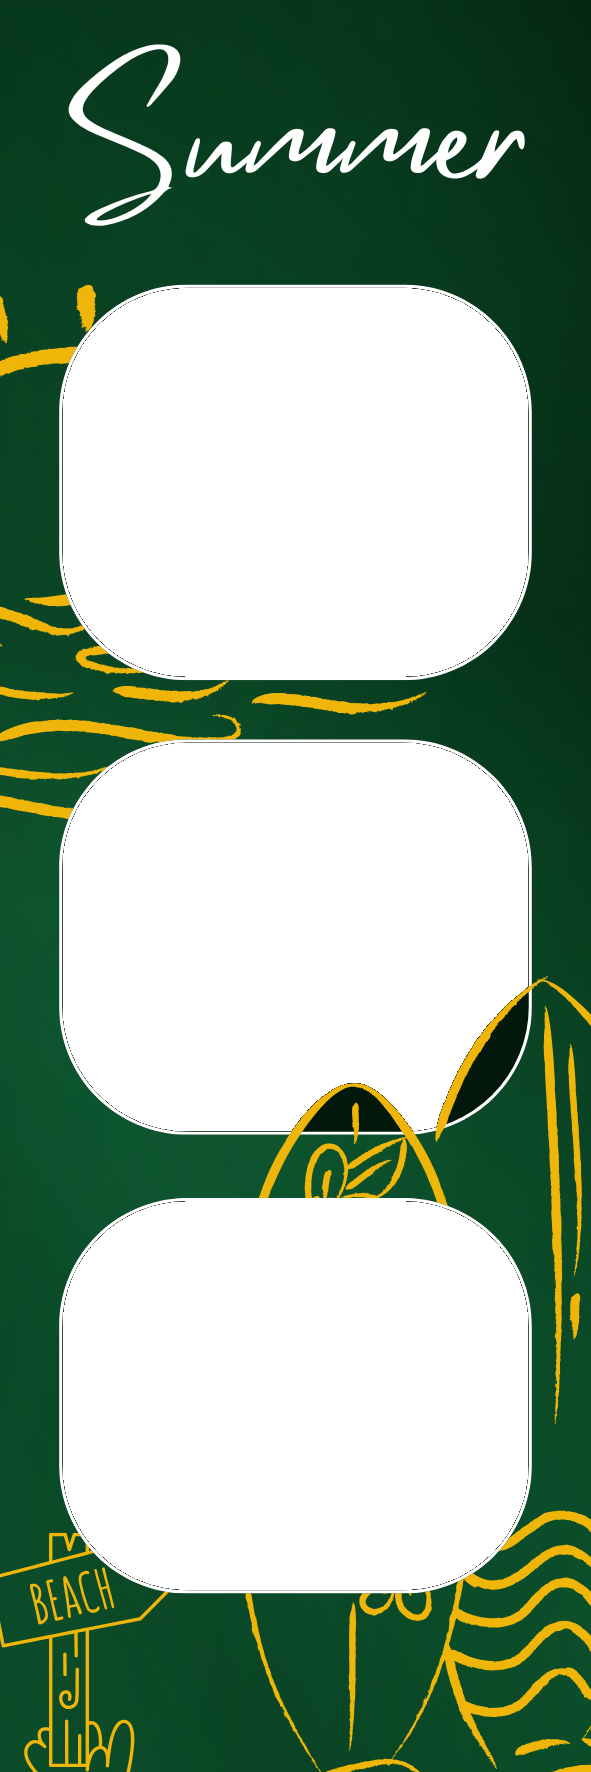
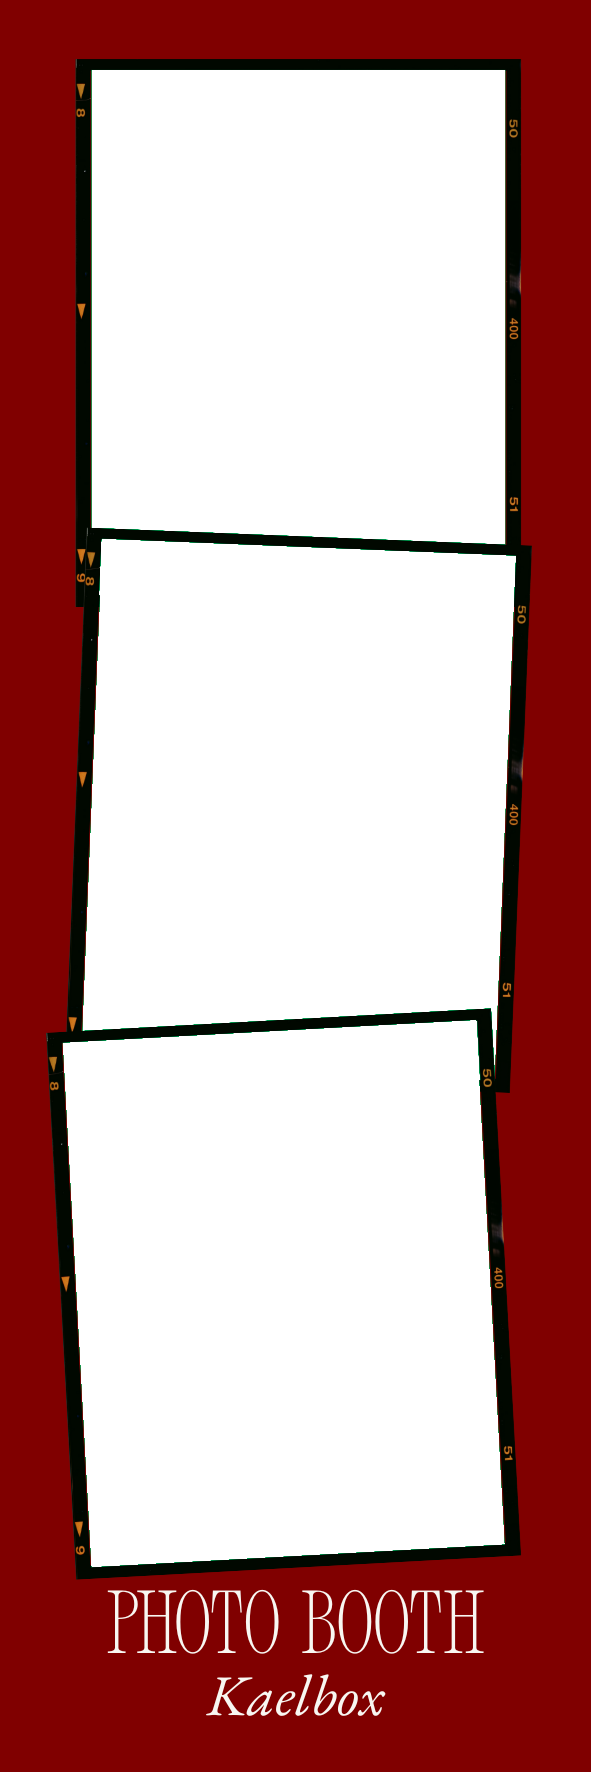
add new frame template

diff --git a/src/components/VirtualPhotobox.jsx b/src/components/VirtualPhotobox.jsx
@@ -58,13 +58,22 @@ const DEFAULT_FRAME_CONFIGS = {
         name: "Frame 5",
         aspectRatio: "591/1772",
         slots: [
-            { top: 13.8, left: 8.8, width: 85, height: 26 },
-            { top: 40.4, left: 8.8, width: 85, height: 26 },
-            { top: 66.4, left: 8.8, width: 85, height: 26 },
+            { top: 4.0, left: 8.8, width: 85.6, height: 26.6 },
+            { top: 30.5, left: 8.8, width: 85.6, height: 28.2  },
+            { top: 58.0, left: 8.8, width: 85.6, height: 32.6 },
         ],
     },
     "/frame 6.png": {
         name: "Frame 6",
+        aspectRatio: "591/1772",
+        slots: [
+            { top: 3.3, left: 12, width: 76, height: 26 },
+            { top: 31.6, left: 12, width: 76, height: 26 },
+            { top: 59.9, left: 12, width: 76, height: 26 },
+        ],
+    },
+    "/frame 7.png": {
+        name: "Frame 7",
         aspectRatio: "591/1772",
         slots: [
             { top: 3.3, left: 12, width: 76, height: 26 },
